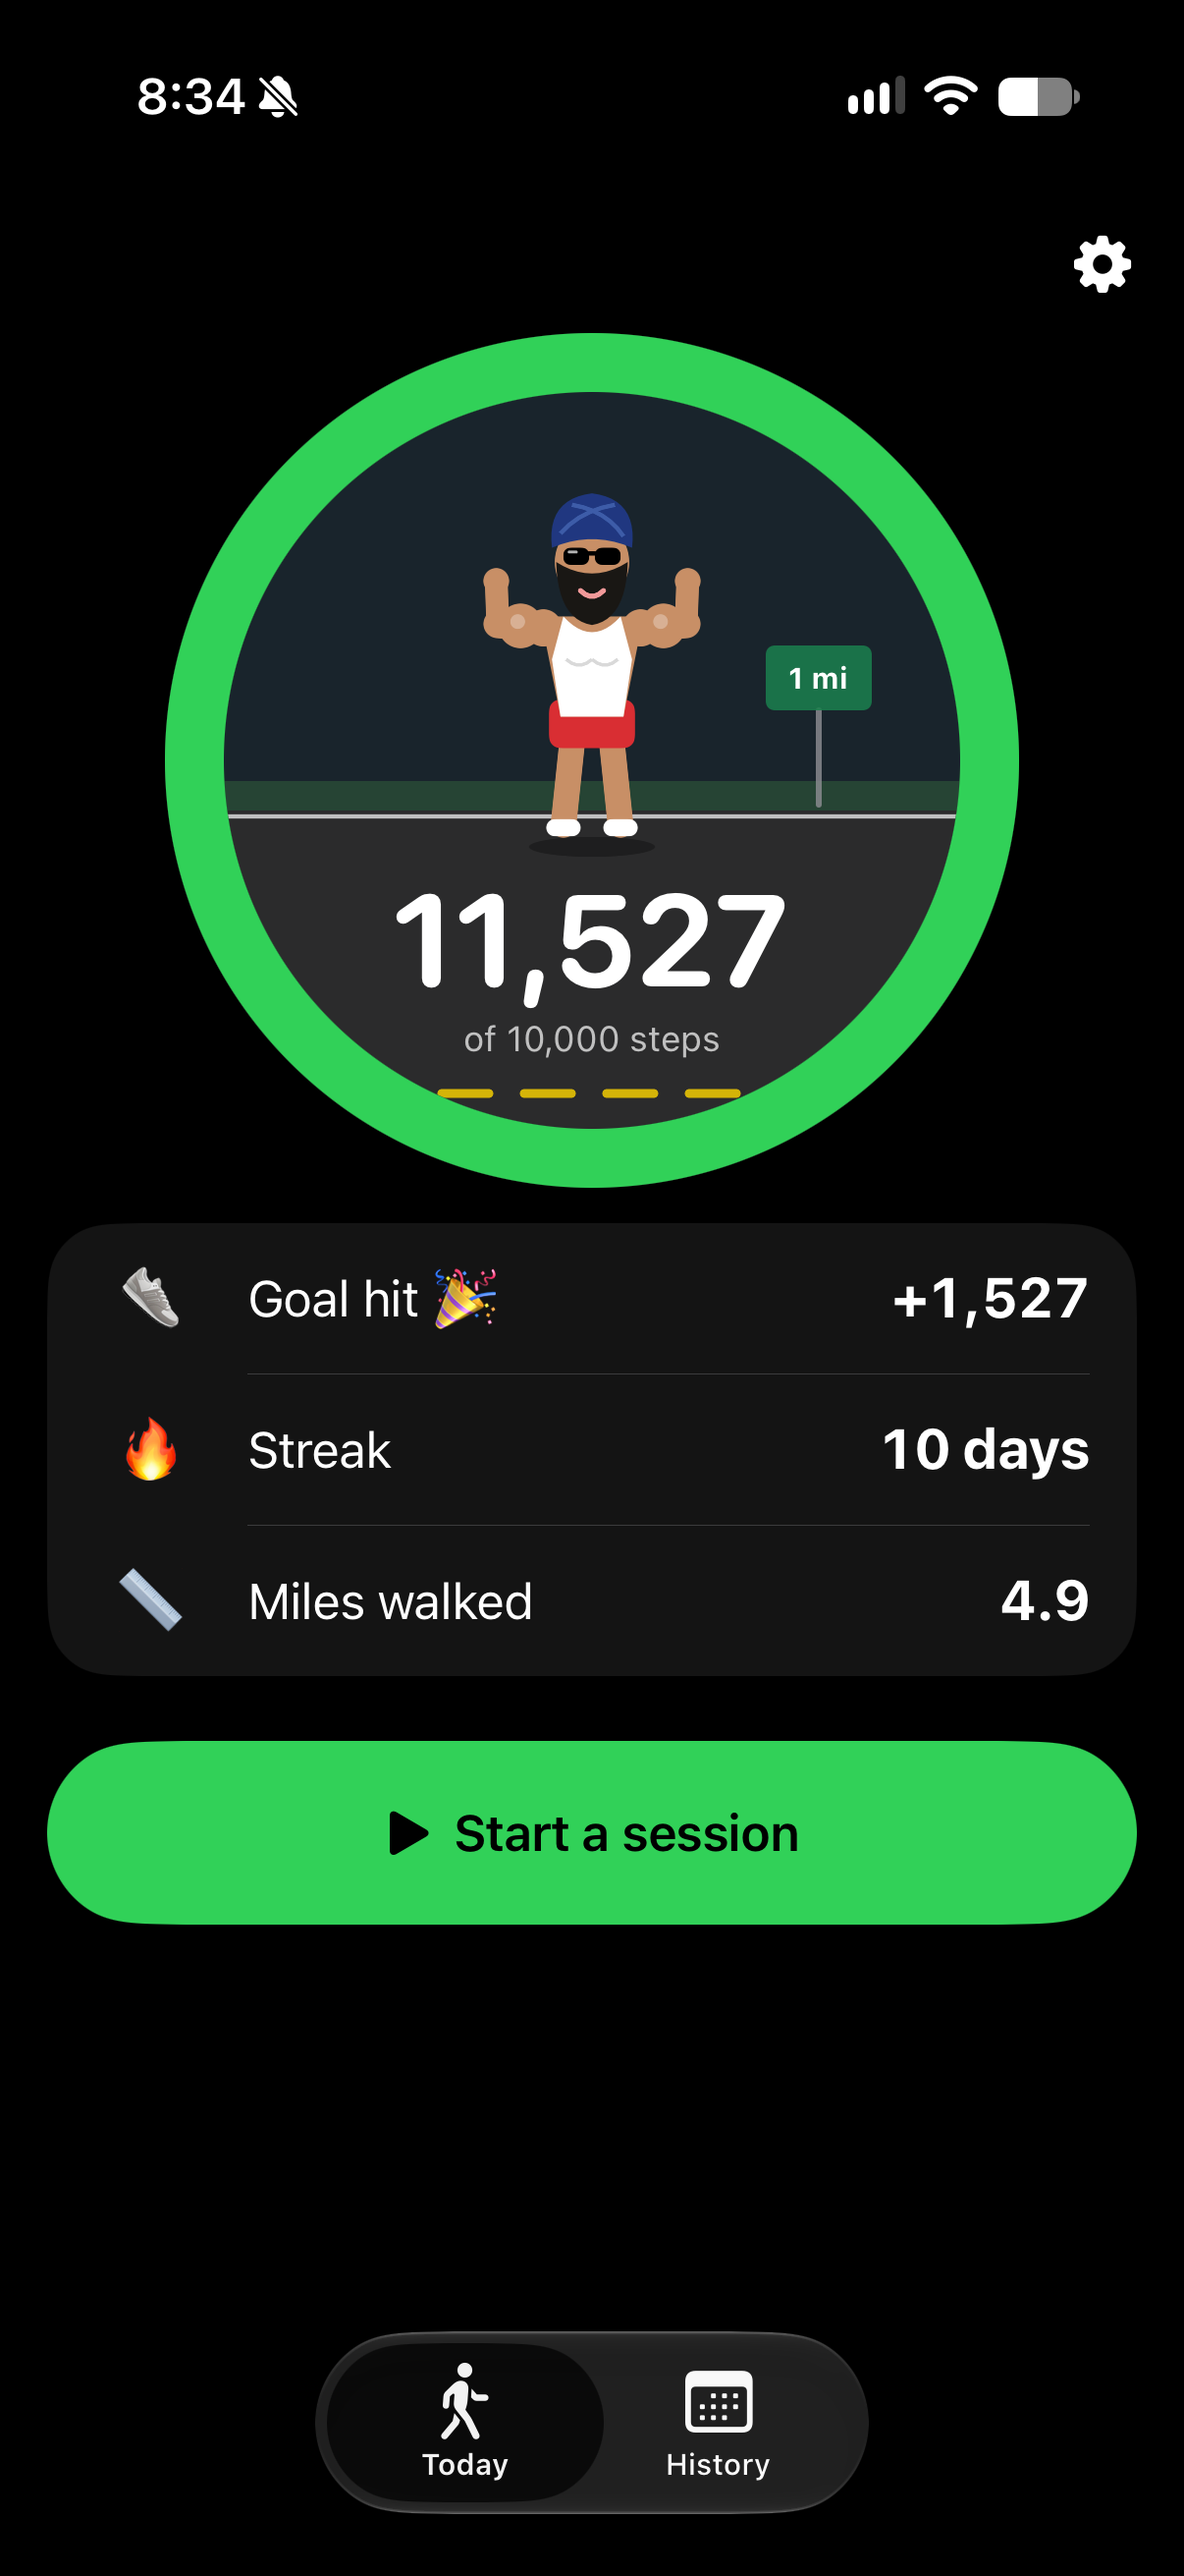
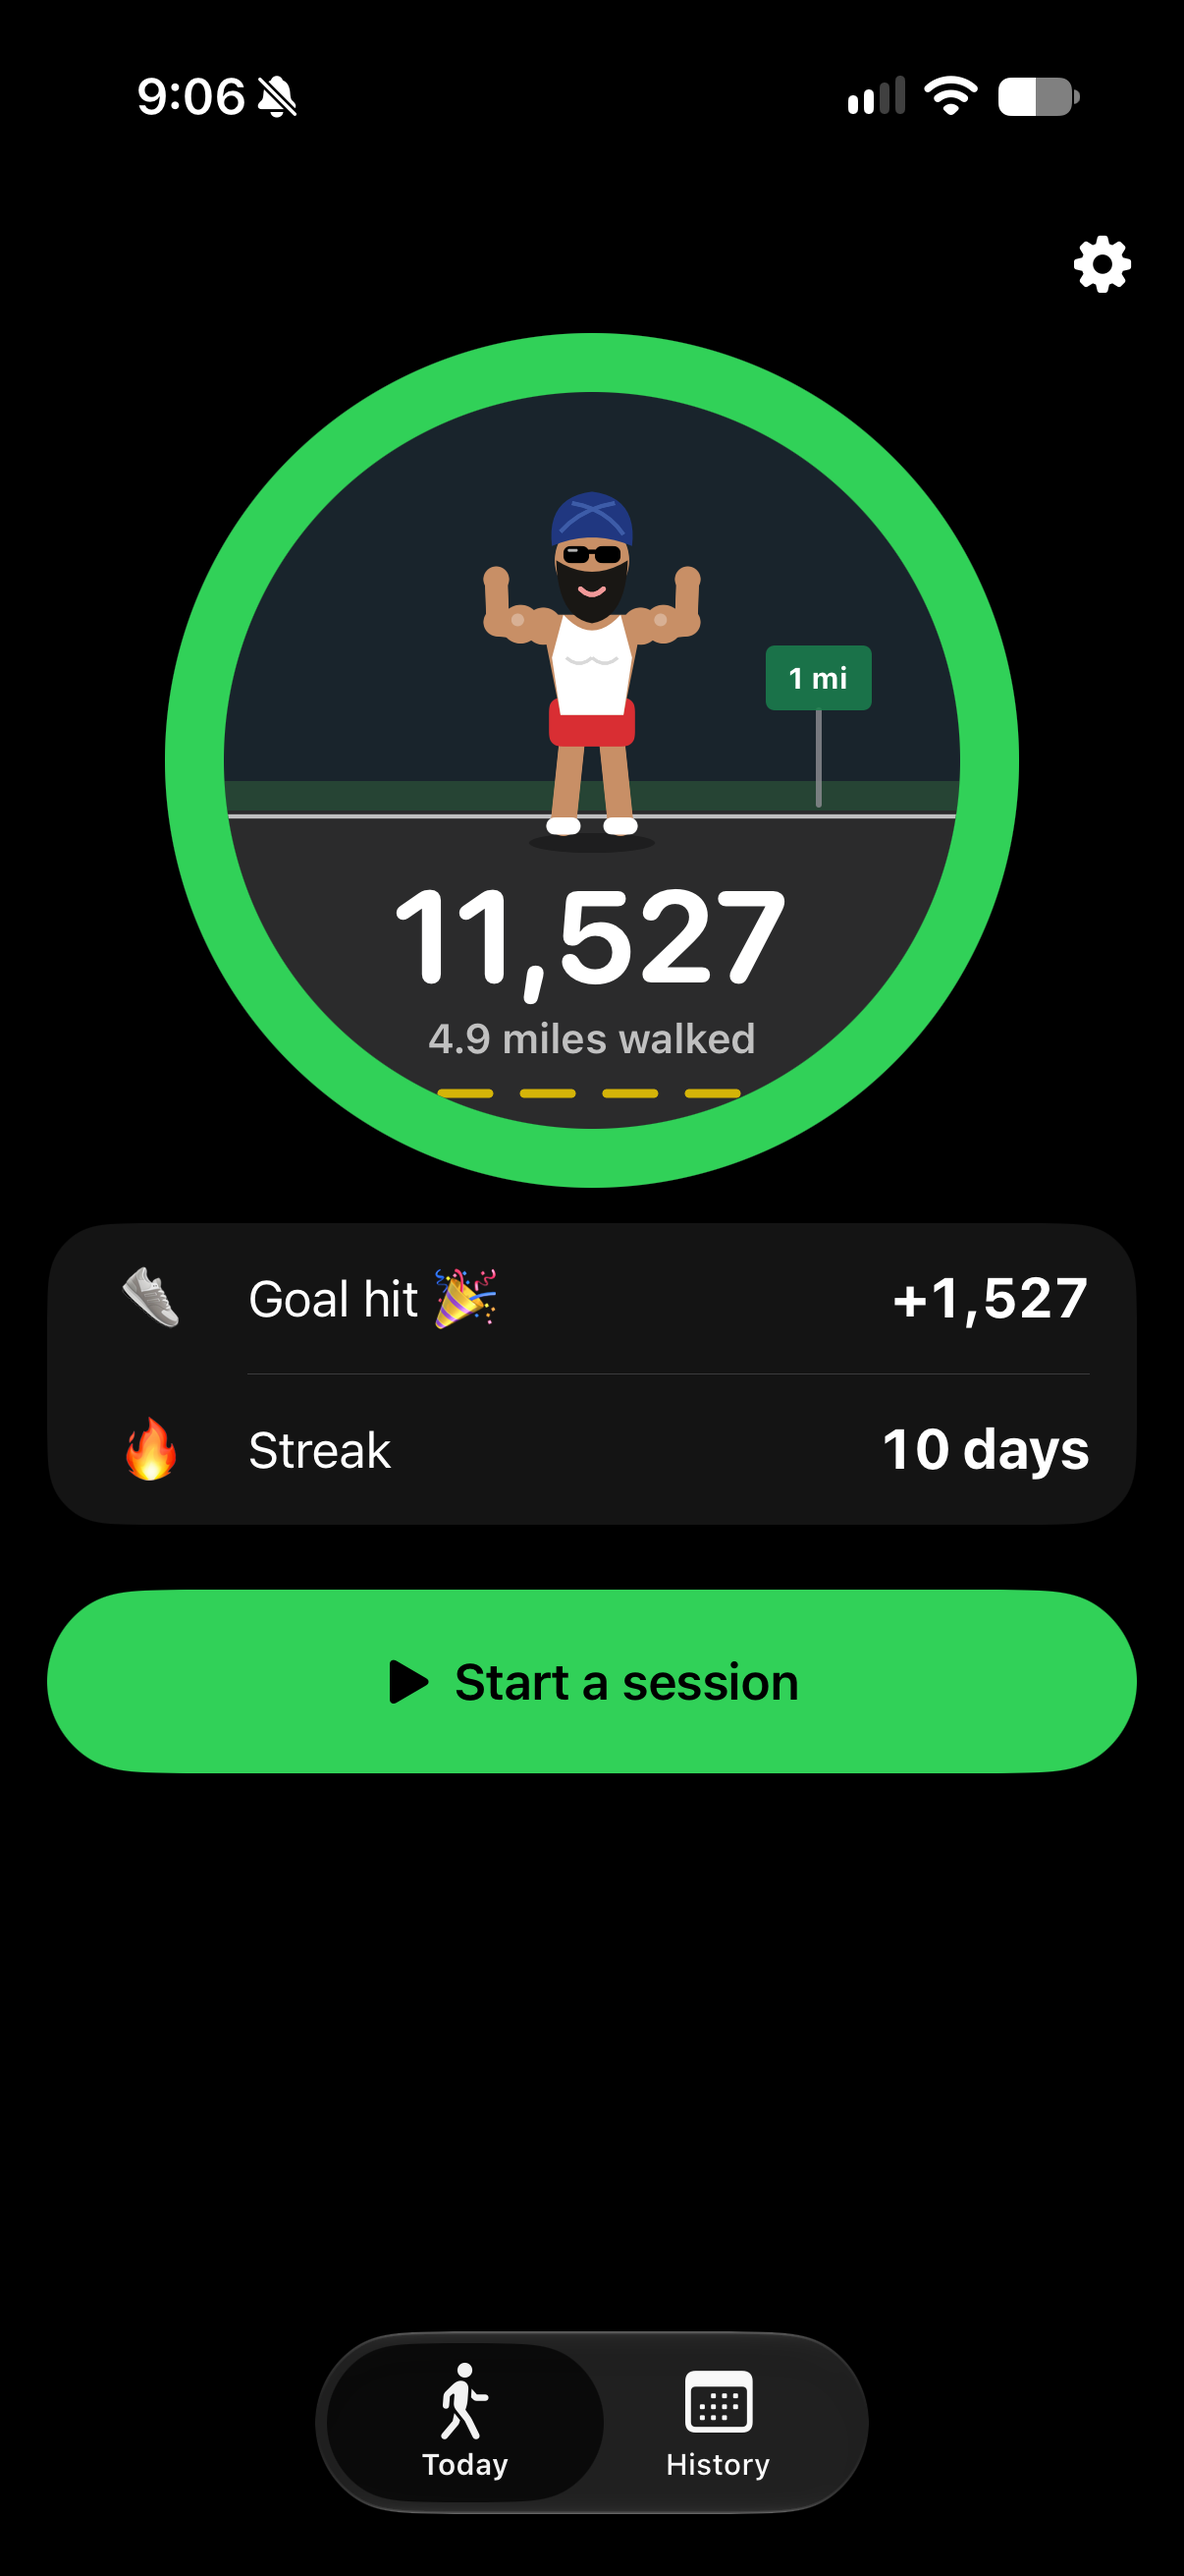
Show distance walked under today's step count
The ring now reads "4.9 miles walked" (in your fun unit) instead of the goal,
and the separate fun-unit row is gone.

diff --git a/Steps/ContentView.swift b/Steps/ContentView.swift
@@ -225,8 +225,6 @@ struct ContentView: View {
                         }
                         Divider().padding(.leading, 52)
                         InfoRow(icon: "🔥", label: "Streak", value: "\(store.streak) \(store.streak == 1 ? "day" : "days")")
-                        Divider().padding(.leading, 52)
-                        InfoRow(icon: funUnit.emoji, label: funUnit.title, value: funUnit.amount(store.today, meters: store.todayMeters))
                     }
                     .padding(.horizontal)
                     .background(Color.primary.opacity(0.08), in: RoundedRectangle(cornerRadius: 22))
@@ -276,8 +274,9 @@ struct ContentView: View {
                     .frame(width: 120, height: 136)
                 Text(store.today, format: .number)
                     .font(.system(size: 44, weight: .bold, design: .rounded))
-                Text("of \(goal.formatted()) steps")
-                    .font(.subheadline)
+                // How far you walked today, in your fun unit ("4.9 miles walked").
+                Text(funUnit.phrase(store.today, meters: store.todayMeters))
+                    .font(.headline)
                     .foregroundStyle(Color.primary.opacity(0.7))
             }
         }

diff --git a/README.md b/README.md
@@ -17,9 +17,9 @@ a hand-drawn animated character that reacts to how your day is going.
 ## Features
 
 **iPhone** (two tabs, Today and History, with big type and one idea per row)
-- **Today:** the goal ring (2,000–30,000, default 10,000), then one card of rows: steps left, how far behind
-  pace you are and the minutes of walking to catch up, the time you'll finish at this pace, your streak, and your
-  **fun unit**: golf holes, soccer fields, track laps, city blocks, km, or miles (picked in Settings).
+- **Today:** the goal ring (2,000–30,000, default 10,000) with today's steps and how far you walked in your
+  **fun unit** under them ("4.9 miles walked"), then one card of rows: steps left, how far behind pace you are and
+  the minutes of walking to catch up, the time you'll finish at this pace, and your streak. Fun units: golf holes, soccer fields, track laps, city blocks, km, or miles (picked in Settings).
   Distances use the real distance Apple Health measured with your own stride; golf holes count steps
 - One **Start a session** button opens a "What are you doing?" sheet
 - The ring shows a scene for your fun unit behind your mini-me: golf green, soccer field, running track,
